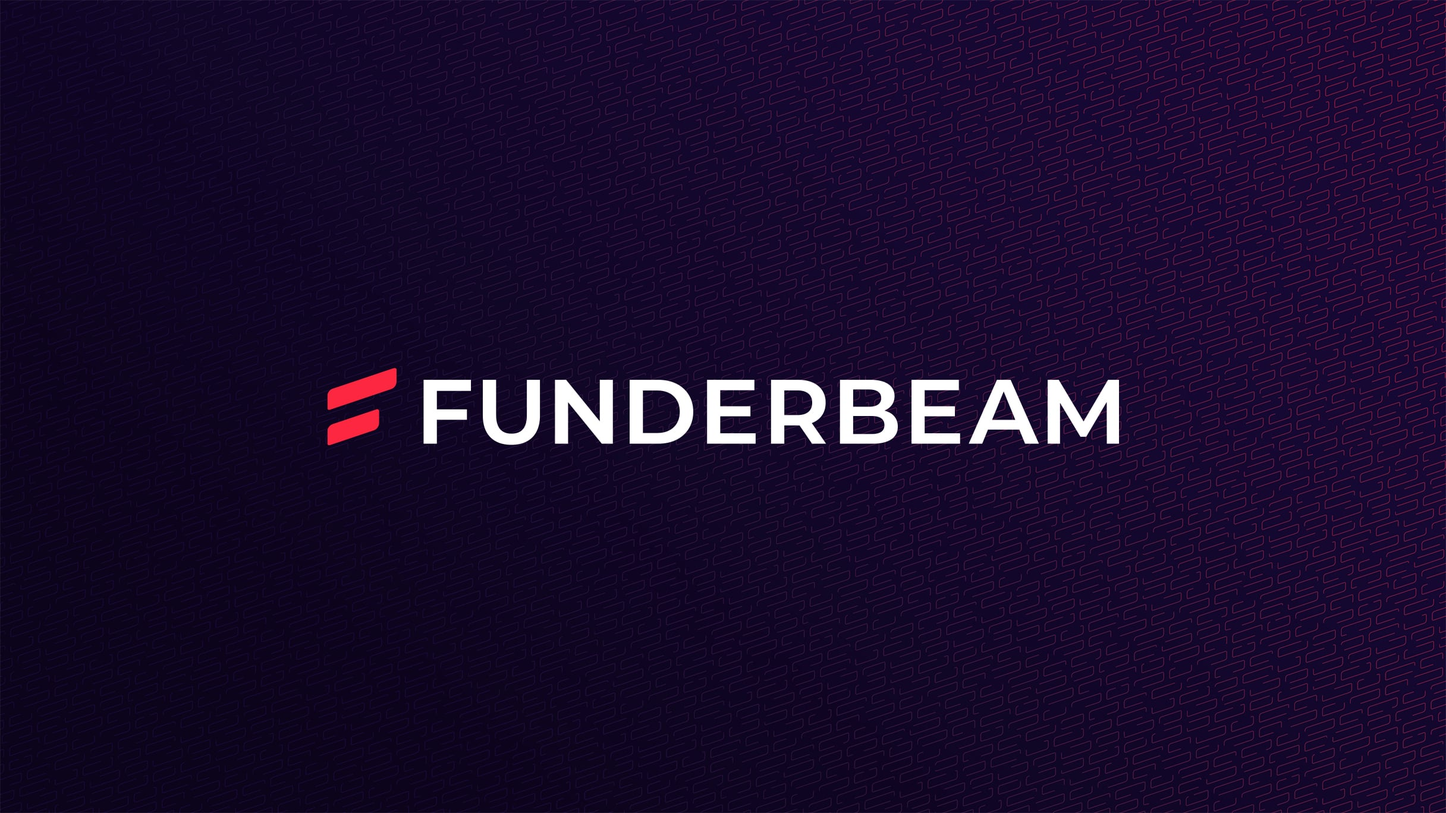
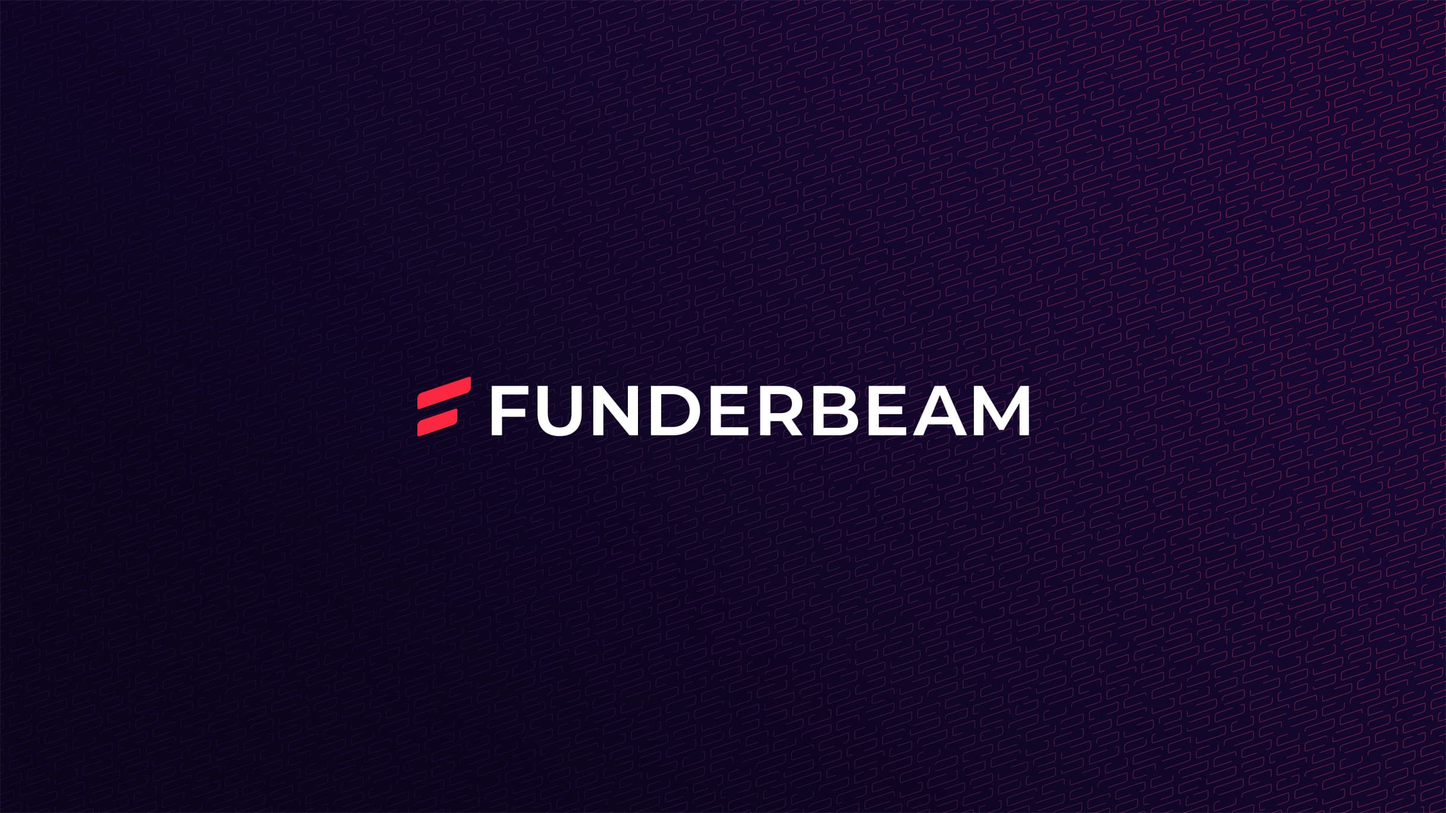
Portfolio layout tweak.

Changed region(s): [[0.2188, 0.4605, 0.7812, 0.5526]]

diff --git a/assets/css/main.css b/assets/css/main.css
@@ -641,8 +641,12 @@ article {
 			position: relative;
 		}
 		& .cover {
+			height: auto;
+			max-height: none;
 			& img {
 				width: 100%;
+				height: auto;
+				margin-bottom: 0;
 			}
 		}
 		& header + .col-2 {
@@ -686,7 +690,8 @@ article {
 				height: auto;
 				& img {
 					width: 100%;
-					height: 100%;
+					height: auto;
+					aspect-ratio: 1 / 1;
 					object-fit: cover;
 					display: block;
 				}
